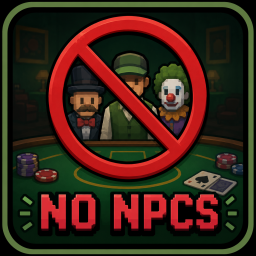
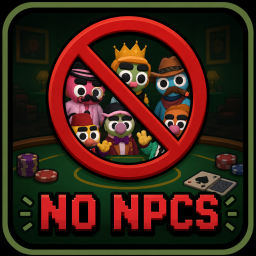
version 1.0.1

diff --git a/Plugin.cs b/Plugin.cs
@@ -34,6 +34,6 @@ namespace GWYF.NoNPCs
     {
         public const string PLUGIN_GUID = "GWYF.Epoch.NoNPCs";
         public const string PLUGIN_NAME = "No NPCs!";
-        public const string PLUGIN_VERSION = "1.0.0";
+        public const string PLUGIN_VERSION = "1.0.1";
     }
 }

diff --git a/thunderstore/CHANGELOG.MD b/thunderstore/CHANGELOG.MD
@@ -1,0 +1,8 @@
+# NoNPCs ChangeLog
+
+## 1.0.1
+- Updated thunderstore icon
+- Added CHANGELOG.md
+
+## 1.0.0
+- Initial Version